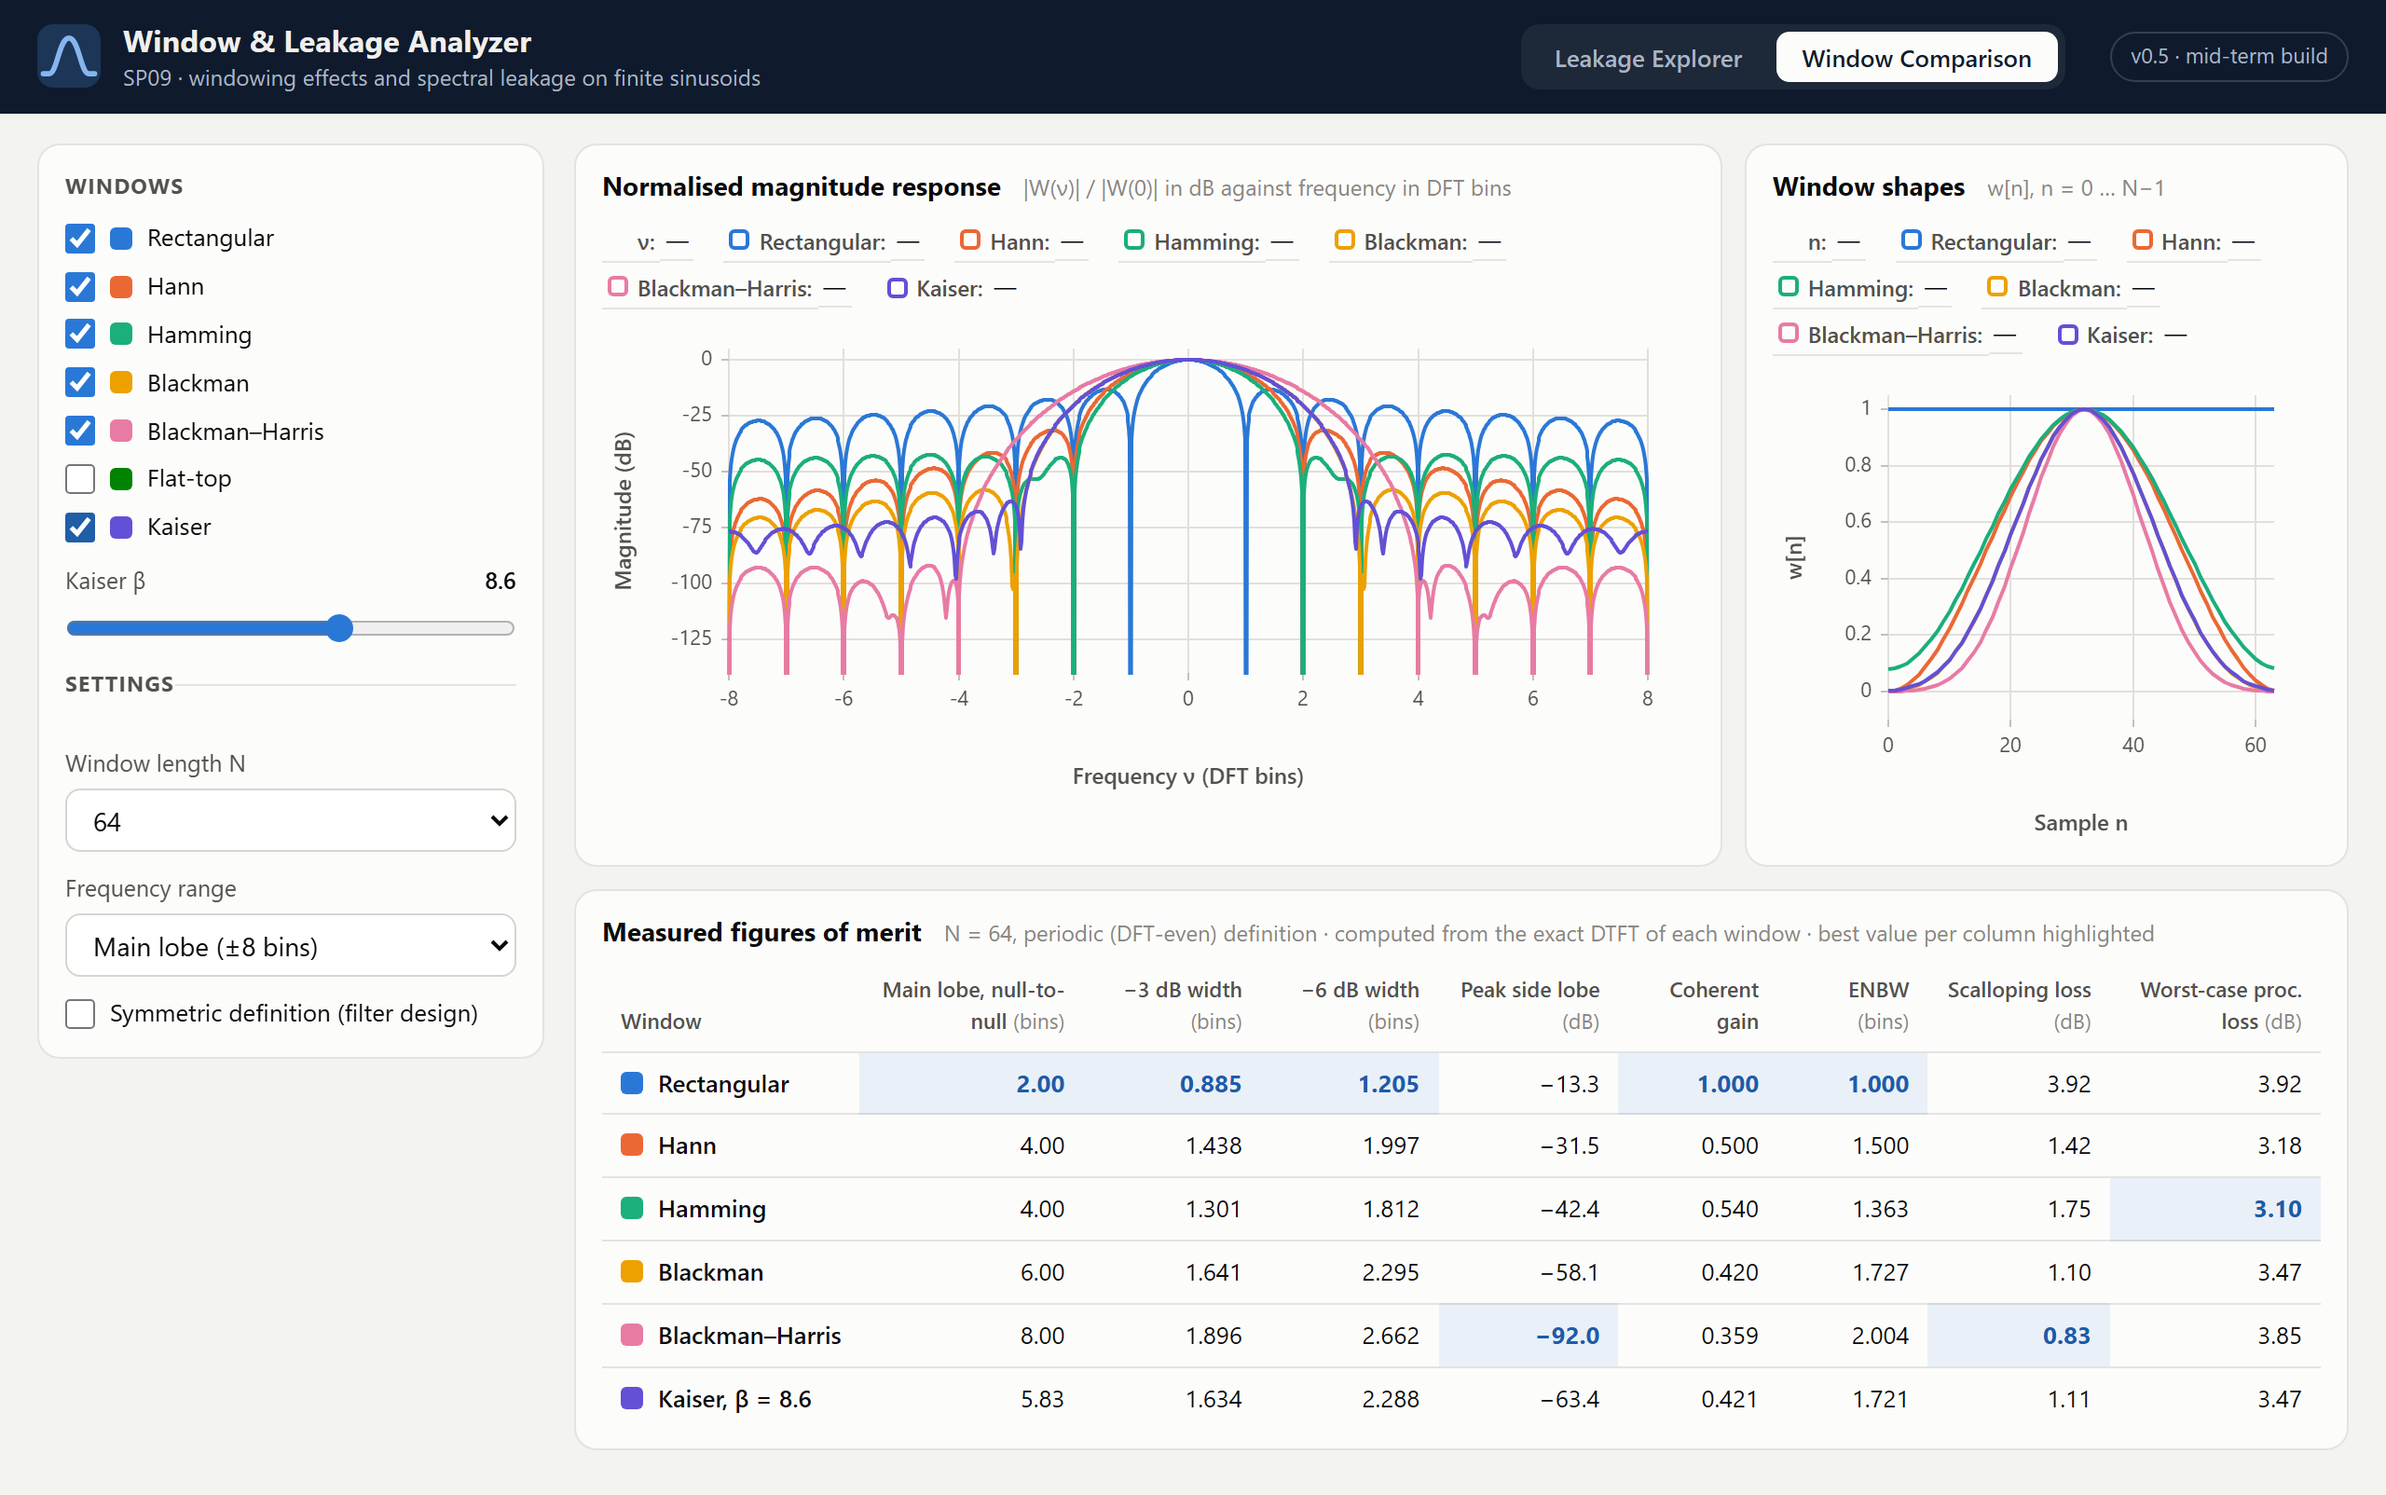
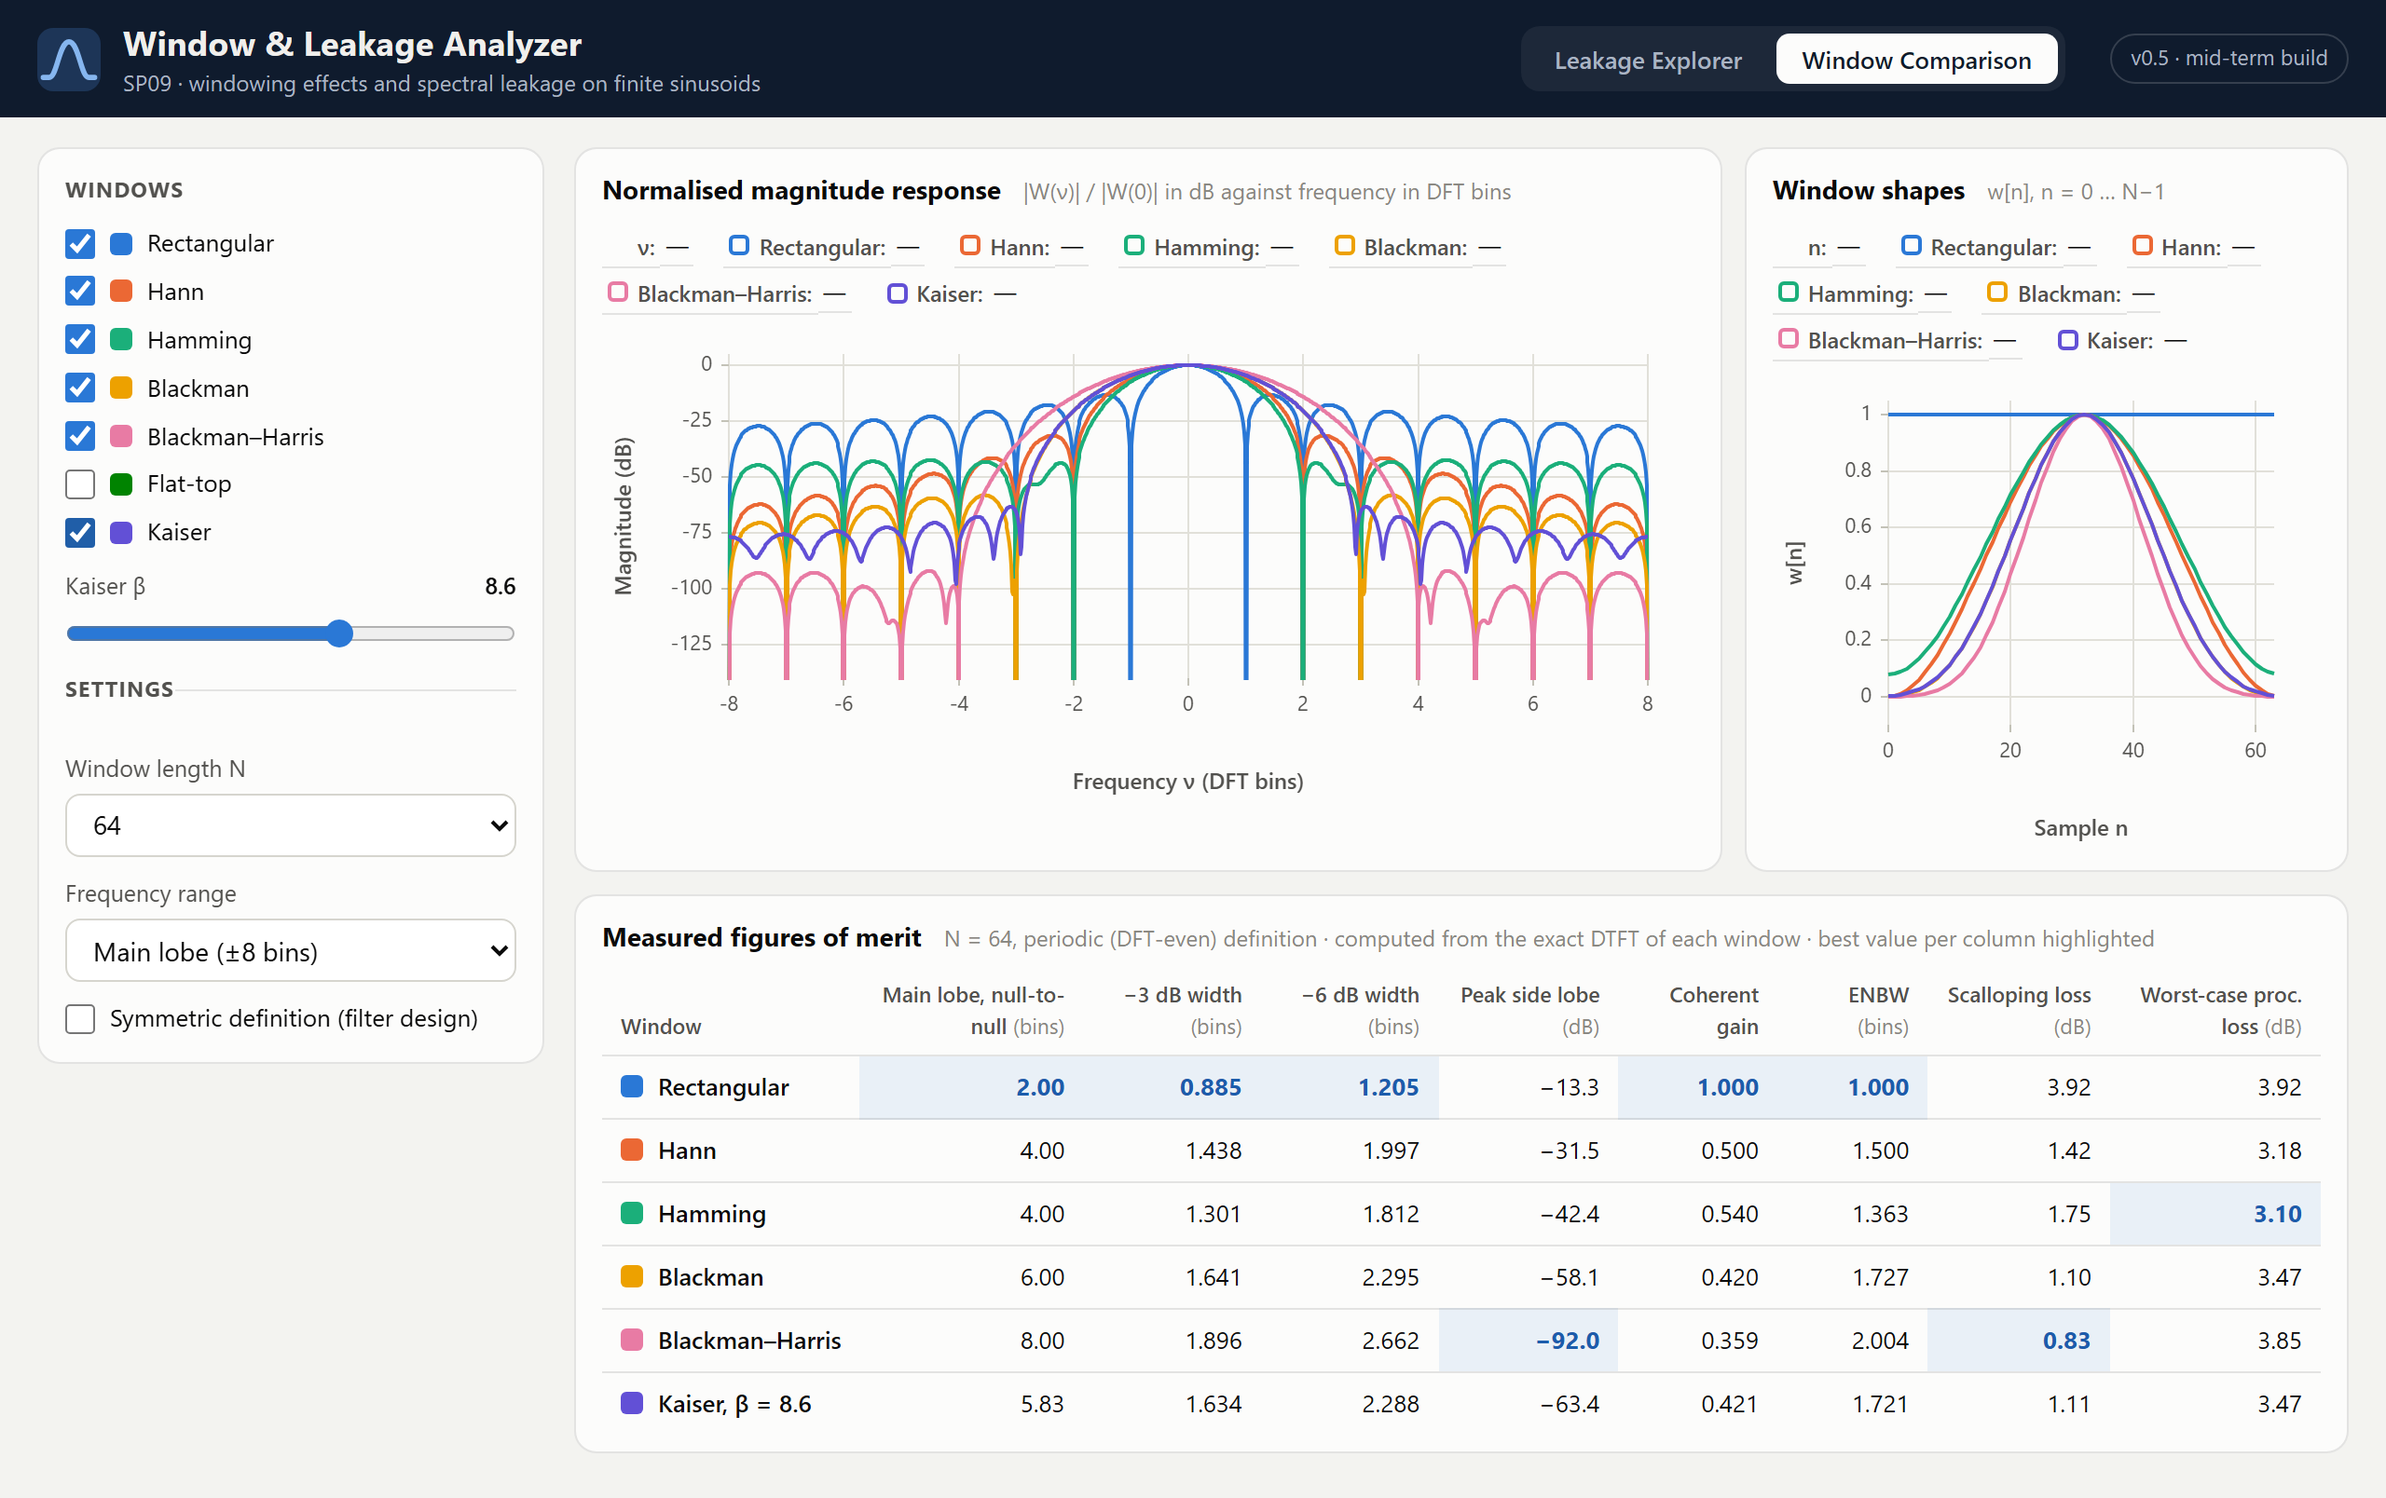
style: give the app title a stronger size step over body text

diff --git a/src/style.css b/src/style.css
@@ -71,7 +71,7 @@ p {
 }
 
 .brand h1 {
-  font-size: 16px;
+  font-size: 18px;
   font-weight: 650;
   letter-spacing: 0.1px;
 }
